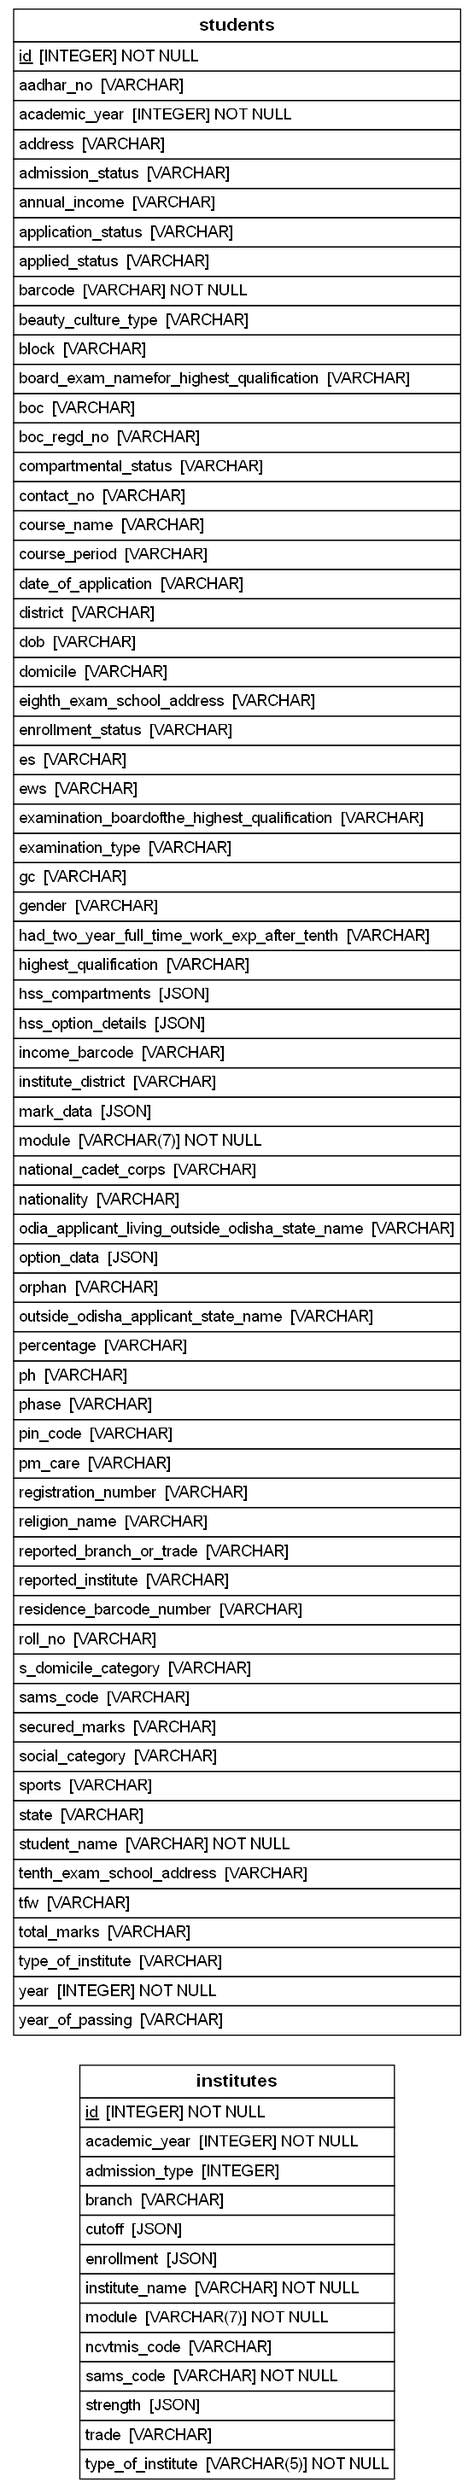
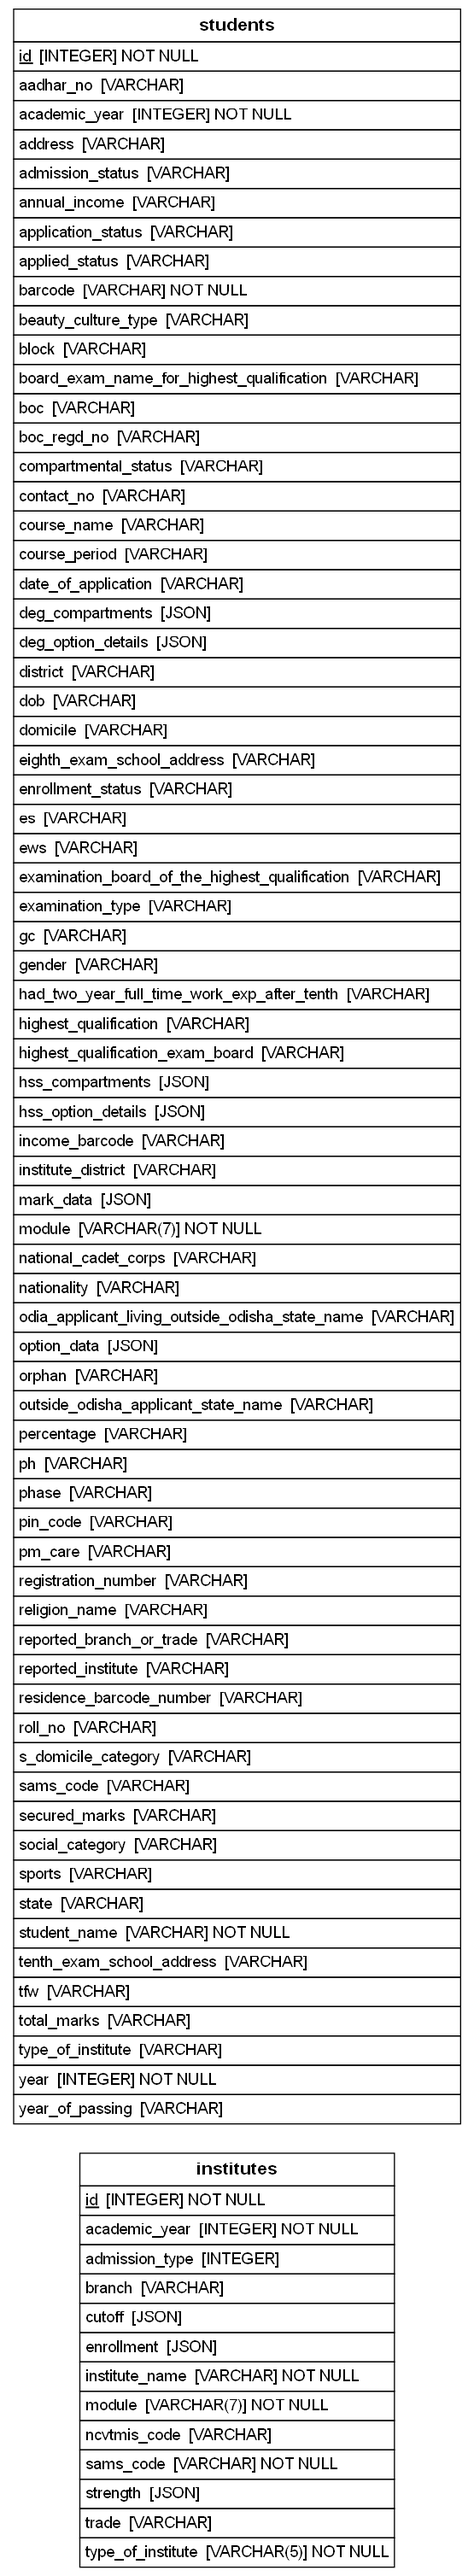
Update hss_nodes, schema graph, and deleted preprocess_hss_data

Changed region(s): [[0.0306, 0.0, 0.9802, 0.9993]]

diff --git a/sams/config.py b/sams/config.py
@@ -104,7 +104,9 @@ STUDENT = {
     "PDIS": {"yearmin": 2020, "yearmax": 2024},
     "ITI": {"yearmin": 2017, "yearmax": 2024},
     "Diploma": {"yearmin": 2018, "yearmax": 2024},
-    "HSS": {"yearmin": 2018, "yearmax": 2024}, 
+    "HSS": {"yearmin": 2018, "yearmax": 2024},
+    "DEG": {"yearmin": 2018, "yearmax": 2024},
+
 }
 
 

diff --git a/sams/preprocessing/hss_nodes.py b/sams/preprocessing/hss_nodes.py
@@ -2,7 +2,6 @@ import pandas as pd
 import numpy as np
 import json
 from sams.utils import dict_camel_to_snake_case, flatten
-from pandarallel import pandarallel
 from loguru import logger
 from tqdm import tqdm
 
